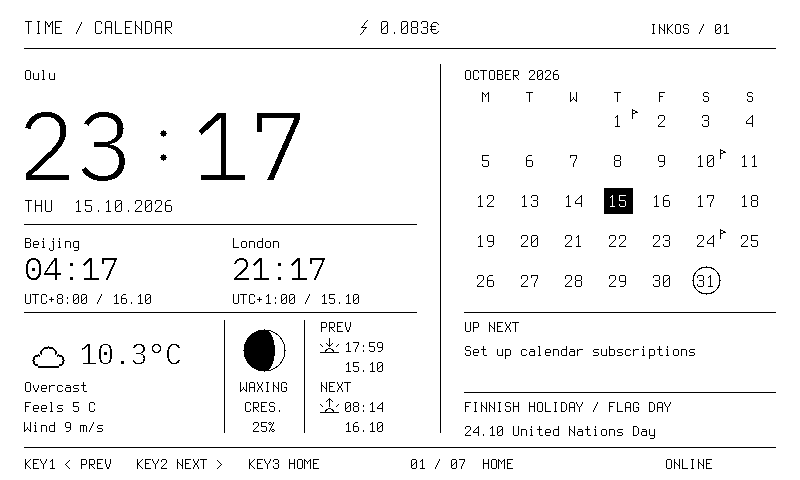
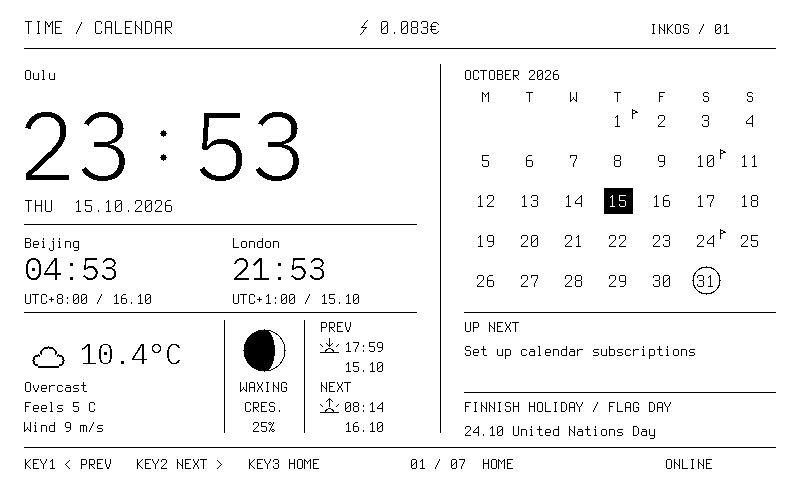
Record verified release builds and remove embedded machine paths

diff --git a/docs/VALIDATION.md b/docs/VALIDATION.md
@@ -6,7 +6,7 @@
 
 [公开摘要](validation/hardware-0.3.1.json) 只保存版本、固件 SHA、按 LF 归一化的源码 SHA、测试范围和限制。原始日志、私有 URL、芯片 MAC、IP、邮箱、NVS 与电脑路径保留在本地，不随仓库发布。
 
-当前 Release 如使用该已部署二进制，应与摘要的 firmware_sha256 匹配。重新编译可能因时间／工具链／路径产生不同 SHA，不自动继承“已烧录并验证”的结论。构建记录与硬件记录是两种证据。
+公开发布时又进行了路径重映射构建、实机烧录和 61/61 自检，完整保留配置。当前 Release 的 SHA 与本次实际验证见 [publication-0.3.1.json](validation/publication-0.3.1.json)；原先的 hardware 摘要保留为历史基线。重新编译产生的新 SHA 不自动继承旧硬件测试结论。
 
 ## 已检查的行为
 
